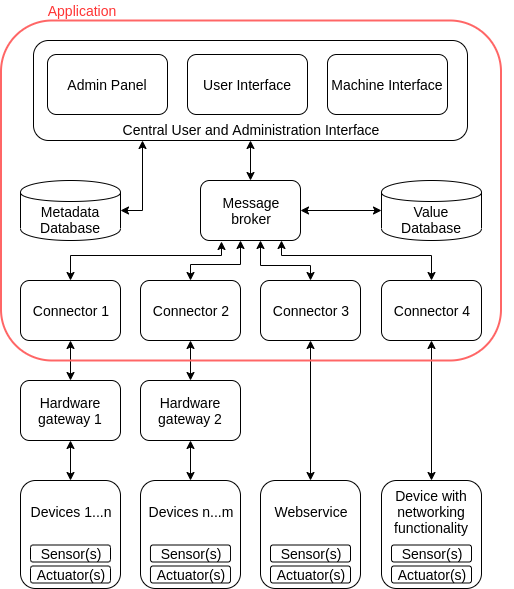
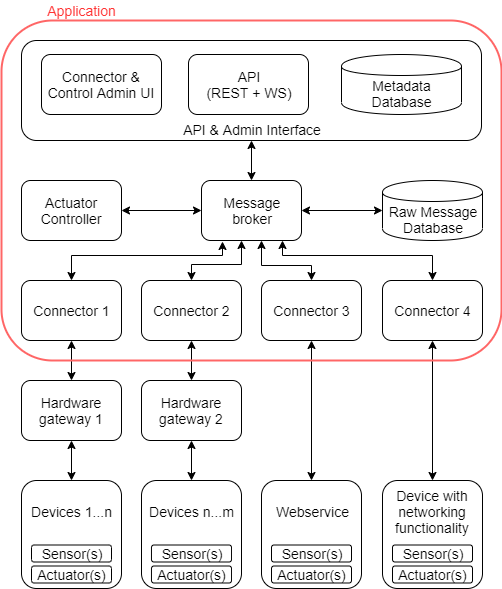
Update introduction in docs

diff --git a/documentation/01_introduction.md b/documentation/01_introduction.md
@@ -1,15 +1,21 @@
-This library allows the efficient creation of applications that can be used to connect a wide range of devices and data sources (e.g. webservices). All communication is bundled through a central API. This library follows a service oriented design in which functionality is encapsulated in services (i.e. docker containers).
+# Introduction
 
-# Creating Applications
+**BEMCom**, the **B**uilding **E**nergy **M**anagement **Com**munication framework, is a software framework for the rapid creation of applications that allow communicating with diverse sensors, actuators and other data sources (e.g webservices). BEMCom was initially designed as a support tool for scientific research projects on building energy management at the [FZI Research Center for Information Technology](https://www.fzi.de/en/about-us/) where the following setting was observed:
 
-The creation of applications from existing services requires only configuration and executing of the application_build tool. Regarding the creation of new services it is possible to use templates to reduce the implementation effort. See the [documentation]() for more details.
+* Research projects should optimize the energy consumption patterns of buildings.
+* Integration of 100+ distributed and heterogeneous sensor and actuator devices may be required. 
+* It is regularly not possible to chose which devices can be used, instead it is necessary to integrate whatever device is already in the building relevant for the project.
+* Devices communicate over a very limited set of specific (and often proprietary) protocols. 
+* Devices often use flawed implementations of protocols or may show unexpected behavior. 
+
+Due to these settings, but in most importantly due to flawed protocol implementations and unexpected behavior, it is in most cases necessary to develop a custom code to to establish communication with a device. BEMCom is thus not a plug and play communication tool, instead it is a framework that should minimize the effort to implement an application that allows communication with several heterogeneous devices and/or data sources via a standardized programming interface.
 
 # Application Concept
 
-Each created application will consist of several services with different functionalities. The following shows the general dataflow in an application.
+Each created application will consist of several services with different functionalities. Each service will usually be run as a docker container. The following shows the general dataflow in an application.
 
 ![service_concept](graphics/service_concept.png)
 
-As already mentioned, the general purpose of the application is to connect **devices** (or other data sources) to a central interface. Devices are represented as **sensor and actuator** datapoints, whereby one datapoint represents one value. Devices may use any form of communication. If the communication is not Ethernet based, it is necessary to use **hardware gateways**, that are devices that translate the device specific communication to Ethernet. An example could be Bluetooth room sensor (the device) that has two datapoints, e.g. the measured values for humidity and temperature. In order connect the device to the application a Raspberry Pi could be used that forwards the measured values from Bluetooth to a TCP socket.
+As already mentioned, the general purpose of BEMCom is to connect **devices** (or other data sources) to a central interface. Devices are represented as **sensor and actuator** datapoints, whereby one datapoint represents one value. Devices may use any form of communication. If the communication is not Ethernet based, it is necessary to use **hardware gateways**, that are devices that translate the device specific communication to Ethernet. An example could be Bluetooth room sensor (the device) that has two datapoints, e.g. the measured values for humidity and temperature. In order connect the device to the application a Raspberry Pi could be used that forwards the measured values from Bluetooth to a TCP socket.
 
-The following group of services are **connectors** which translate the gateway specific message format to the shared message format used by all services directly connected to the message broker. The message will then be sent to the **message broker** which connects the services with each other. As usual,  **databases**  allow storing  Finally the central user and administration interface (**API**) is the only interaction endpoint for users and administrators alike. Returning to our example, a connector would listen to the gatway's TCP socket and convert incoming messages to the defined message format and sends them via MQTT to the message broker. Users would finally access the measured values by accessing a web based user interface which would use API. 
+The following group of services are **connectors** which translate the gateway specific message format to the shared message format used by all services directly connected to the message broker. The message will then be sent to the **message broker** which connects the services with each other. As parsing the gateway specific message format by the connector is in most cases a destructive process (in a sense that information is removed and the raw message received from the gateway cannot be restored from the parsed message) it is often useful to store the raw message to in a **raw message database**. Storing the raw messages allows to replay these and ensures thus that the full history sensor data is preserved, even if a connector contained a software bug that introduced errors while parsing the messages of the gateway. Finally the central **API** and admin interface provides external access to devices and data sources as well as administration user interface to allow configuration of the application and in particular the connectors. Returning to our example, a connector would listen to the gatway's TCP socket and convert incoming messages to the defined message format and sends them via MQTT to the message broker. External applications, like e.g. a user interface for humans interacting with a building, could access the sensor data via the REST interface of the API service.
